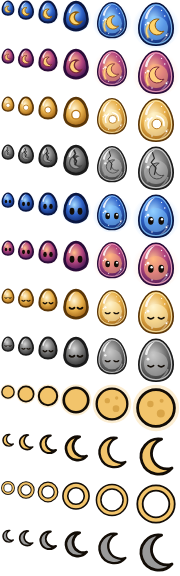
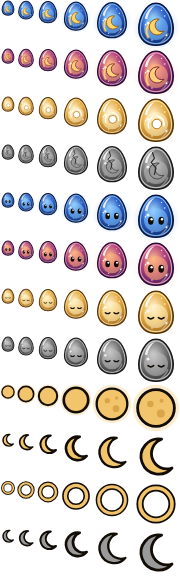
Icônes détaillées à toutes les tailles

Changed region(s): [[0.0, 0.25, 0.5, 0.4688], [0.0, 0.0, 0.5, 0.2188], [0.0, 0.5, 0.5, 0.6562]]

diff --git a/tools/make_icon.py b/tools/make_icon.py
@@ -9,7 +9,8 @@ Writes, in assets/:
   logo.png         the 256 px logo used by the README
   tray-icons.png   the notification area icons: 3 styles x 4 states, at 16, 20, 24, 32, 40 and 48 px
 
-Small sizes use simplified drawings (thicker outlines, no sparkles) so they stay readable.
+The eggs keep their glass details at every size, with a thicker outline under 32 px;
+the round moon is simplified under 40 px.
 The PNG files are written by Pillow without any metadata.
 """
 from io import BytesIO
@@ -37,8 +38,9 @@ TRAY_SIZES = [16, 20, 24, 32, 40, 48]
 ICO_SIZES = [16, 20, 24, 32, 40, 48, 64, 128, 256]
 
 
-def egg(state: str, motif: str, detailed: bool, glow: bool) -> str:
+def egg(state: str, motif: str, glow: bool, size: int = 120) -> str:
     s = STATES[state]
+    rim = max(4.0, 150.0 / size)  # about 1.2 px, so the outline stays visible on small icons
     parts = [
         "<defs>",
         f'<radialGradient id="b" cx="42%" cy="38%" r="68%"><stop offset="0" stop-color="{s["c3"]}"/>'
@@ -50,46 +52,32 @@ def egg(state: str, motif: str, detailed: bool, glow: bool) -> str:
     ]
     if glow and s["glow_op"] > 0:
         parts.append(f'<circle cx="60" cy="62" r="60" fill="url(#g)" opacity="{min(1, s["glow_op"] * 2)}"/>')
-    if detailed:
-        parts.append(f'<path d="{EGG}" fill="url(#b)"/>')
-        parts.append('<g clip-path="url(#c)">')
-        parts.append(f'<circle cx="60" cy="70" r="30" fill="{s["core"]}" opacity="0.55"/>')
-        if motif == "moon":
-            parts.append(f'<path d="M40 92q-10-20 6-34" fill="none" stroke="{s["m1"]}" stroke-width="10" stroke-linecap="round" opacity="0.35"/>')
-            parts.append(f'<path d="M40 92q-10-20 6-34" fill="none" stroke="{s["m1"]}" stroke-width="4" stroke-linecap="round"/>')
-            parts.append(f'<path d="M68 48a20 20 0 1 0 12 30a15 15 0 1 1-12-30z" fill="{s["m1"]}" stroke="{s["m2"]}" stroke-width="2.5"/>')
-        elif motif == "sun":
-            parts.append(f'<circle cx="62" cy="70" r="12" fill="{s["m1"]}" stroke="{s["m2"]}" stroke-width="2.5"/>')
-            parts.append(f'<path d="M62 50q20 4 18 24M42 80q-6-16 8-26" fill="none" stroke="{s["m1"]}" stroke-width="4" stroke-linecap="round"/>')
-        elif motif == "eyes_open":
-            parts.append('<ellipse cx="47" cy="72" rx="7" ry="10" fill="#120c06"/><ellipse cx="73" cy="72" rx="7" ry="10" fill="#120c06"/>'
-                         '<circle cx="49" cy="68" r="3" fill="#ffffff"/><circle cx="75" cy="68" r="3" fill="#ffffff"/>')
-        elif motif == "eyes_closed":
-            parts.append('<path d="M40 74q7 6 14 0M66 74q7 6 14 0" fill="none" stroke="#120c06" stroke-width="4" stroke-linecap="round"/>')
-        if s["spark"]:
-            parts.append('<g fill="#ffffff"><circle cx="34" cy="62" r="2"/><circle cx="82" cy="40" r="1.8"/>'
-                         '<circle cx="86" cy="88" r="2.2"/><circle cx="50" cy="100" r="1.6"/><circle cx="74" cy="26" r="1.4"/></g>')
-        if state == "off" and motif == "moon":
-            parts.append('<path d="M50 18l6 18-8 10 12 14-4 16" fill="none" stroke="#2b2b2b" stroke-width="3" stroke-linejoin="round" stroke-linecap="round"/>')
-        parts.append('<path d="M92 84q-6 20-28 26q18-10 24-28z" fill="#ffffff" opacity="0.35"/>')
-        parts.append("</g>")
-        parts.append(f'<path d="{EGG}" fill="none" stroke="{s["rim"]}" stroke-width="4"/>')
-        parts.append(f'<path d="{EGG_IN}" fill="none" stroke="{s["rim2"]}" stroke-width="3" opacity="0.8"/>')
-        parts.append('<path d="M32 46q6-26 26-32q-16 12-20 34z" fill="#ffffff" opacity="0.85"/>')
-        parts.append('<circle cx="40" cy="58" r="3.5" fill="#ffffff" opacity="0.85"/>')
-    else:
-        parts.append(f'<path d="{EGG}" fill="url(#b)" stroke="{s["rim"]}" stroke-width="10"/>')
-        if motif == "moon":
-            parts.append(f'<path d="M66 46a24 24 0 1 0 14 36a18 18 0 1 1-14-36z" fill="{s["m1"]}" stroke="{s["m2"]}" stroke-width="5"/>')
-        elif motif == "sun":
-            parts.append(f'<circle cx="60" cy="70" r="16" fill="{s["m1"]}" stroke="{s["m2"]}" stroke-width="5"/>')
-        elif motif == "eyes_open":
-            parts.append('<ellipse cx="45" cy="72" rx="9" ry="13" fill="#120c06"/><ellipse cx="75" cy="72" rx="9" ry="13" fill="#120c06"/>')
-        elif motif == "eyes_closed":
-            parts.append('<path d="M36 74q9 9 18 0M66 74q9 9 18 0" fill="none" stroke="#120c06" stroke-width="7" stroke-linecap="round"/>')
-        if state == "off" and motif == "moon":
-            parts.append('<path d="M50 18l8 18-8 12 12 16-6 16" fill="none" stroke="#2b2b2b" stroke-width="6" stroke-linejoin="round"/>')
-        parts.append('<path d="M32 48q6-28 28-34q-18 12-22 36z" fill="#ffffff" opacity="0.85"/>')
+    parts.append(f'<path d="{EGG}" fill="url(#b)"/>')
+    parts.append('<g clip-path="url(#c)">')
+    parts.append(f'<circle cx="60" cy="70" r="30" fill="{s["core"]}" opacity="0.55"/>')
+    if motif == "moon":
+        parts.append(f'<path d="M40 92q-10-20 6-34" fill="none" stroke="{s["m1"]}" stroke-width="10" stroke-linecap="round" opacity="0.35"/>')
+        parts.append(f'<path d="M40 92q-10-20 6-34" fill="none" stroke="{s["m1"]}" stroke-width="4" stroke-linecap="round"/>')
+        parts.append(f'<path d="M68 48a20 20 0 1 0 12 30a15 15 0 1 1-12-30z" fill="{s["m1"]}" stroke="{s["m2"]}" stroke-width="2.5"/>')
+    elif motif == "sun":
+        parts.append(f'<circle cx="62" cy="70" r="12" fill="{s["m1"]}" stroke="{s["m2"]}" stroke-width="2.5"/>')
+        parts.append(f'<path d="M62 50q20 4 18 24M42 80q-6-16 8-26" fill="none" stroke="{s["m1"]}" stroke-width="4" stroke-linecap="round"/>')
+    elif motif == "eyes_open":
+        parts.append('<ellipse cx="47" cy="72" rx="7" ry="10" fill="#120c06"/><ellipse cx="73" cy="72" rx="7" ry="10" fill="#120c06"/>'
+                     '<circle cx="49" cy="68" r="3" fill="#ffffff"/><circle cx="75" cy="68" r="3" fill="#ffffff"/>')
+    elif motif == "eyes_closed":
+        parts.append('<path d="M40 74q7 6 14 0M66 74q7 6 14 0" fill="none" stroke="#120c06" stroke-width="4" stroke-linecap="round"/>')
+    if s["spark"]:
+        parts.append('<g fill="#ffffff"><circle cx="34" cy="62" r="2"/><circle cx="82" cy="40" r="1.8"/>'
+                     '<circle cx="86" cy="88" r="2.2"/><circle cx="50" cy="100" r="1.6"/><circle cx="74" cy="26" r="1.4"/></g>')
+    if state == "off" and motif == "moon":
+        parts.append('<path d="M50 18l6 18-8 10 12 14-4 16" fill="none" stroke="#2b2b2b" stroke-width="3" stroke-linejoin="round" stroke-linecap="round"/>')
+    parts.append('<path d="M92 84q-6 20-28 26q18-10 24-28z" fill="#ffffff" opacity="0.35"/>')
+    parts.append("</g>")
+    parts.append(f'<path d="{EGG}" fill="none" stroke="{s["rim"]}" stroke-width="{rim:.1f}"/>')
+    parts.append(f'<path d="{EGG_IN}" fill="none" stroke="{s["rim2"]}" stroke-width="3" opacity="0.8"/>')
+    parts.append('<path d="M32 46q6-26 26-32q-16 12-20 34z" fill="#ffffff" opacity="0.85"/>')
+    parts.append('<circle cx="40" cy="58" r="3.5" fill="#ffffff" opacity="0.85"/>')
     return "".join(parts)
 
 
@@ -108,14 +96,13 @@ def moon(state: str, detailed: bool) -> str:
 
 
 def drawing(style: str, state: str, size: int, glow: bool = True) -> str:
-    detailed = size >= 40
     if style == "moon":
-        return moon(state, detailed)
+        return moon(state, size >= 40)
     if style == "moon_egg":
         motif = "sun" if state == "day" else "moon"
     else:
         motif = "eyes_open" if state in ("night", "twilight") else "eyes_closed"
-    return egg(state, motif, detailed, glow)
+    return egg(state, motif, glow, size)
 
 
 def render(page, body: str, size: int) -> Image.Image:
